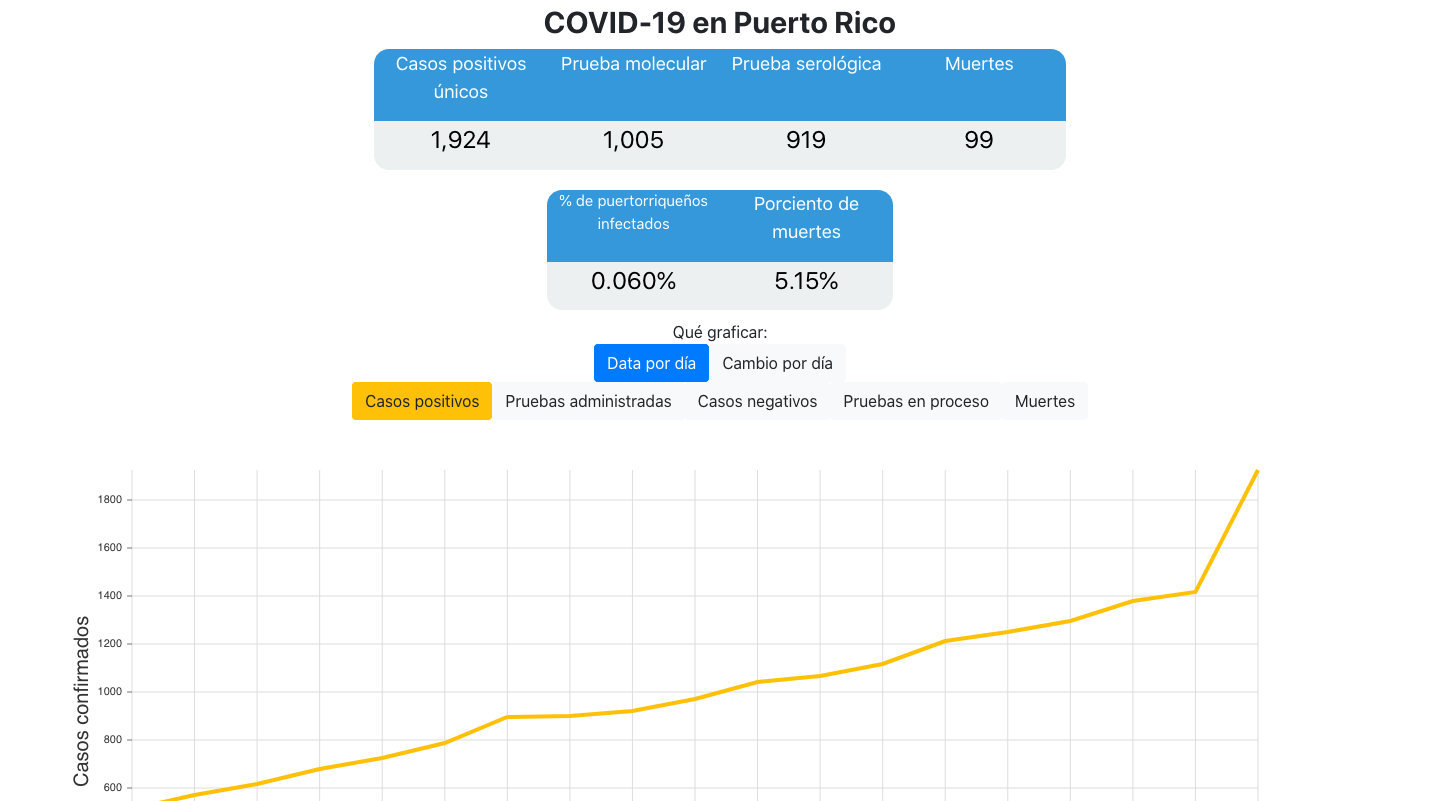
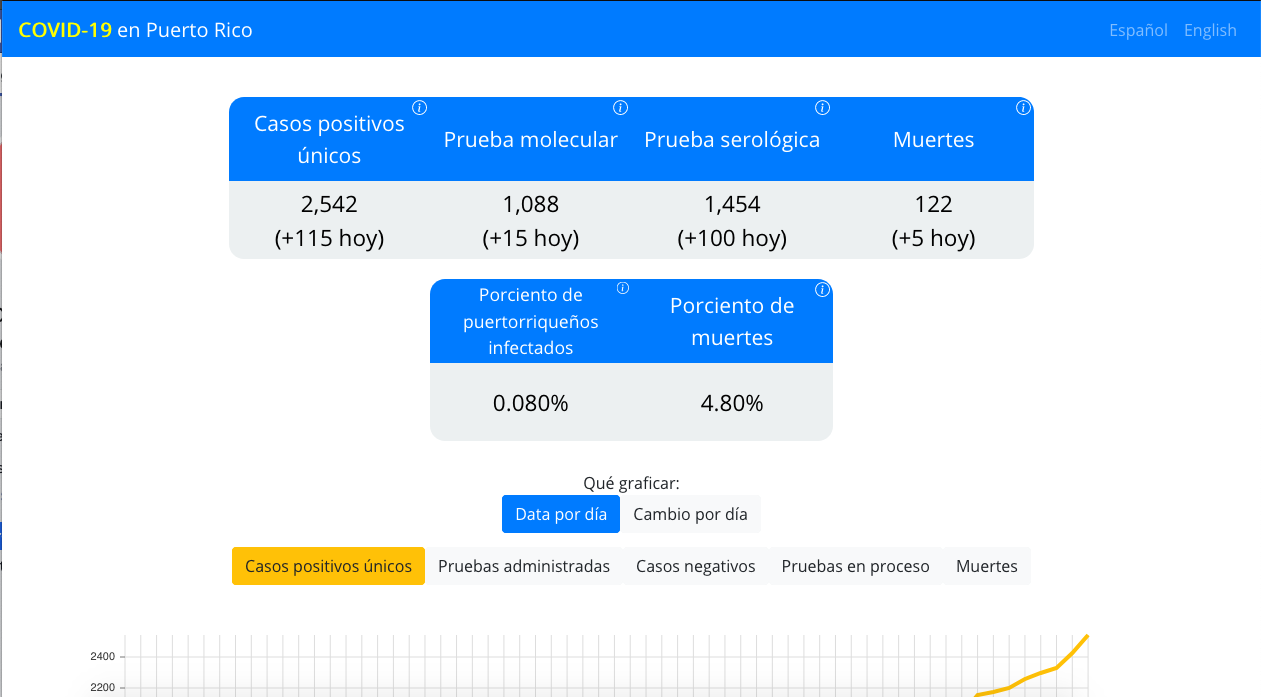
Added social buttons

diff --git a/src/components/Home/index.js b/src/components/Home/index.js
@@ -5,6 +5,13 @@ import { CSVLink } from "react-csv";
 import * as Icon from 'react-bootstrap-icons';
 import { useCookies } from 'react-cookie';
 
+import {
+  FacebookShareButton,
+  FacebookIcon,
+  TwitterShareButton,
+  TwitterIcon,
+} from "react-share";
+
 const ALERT_HEADER = {'en-us':'All historical data available','es-pr':'Historial completo'}
 const ALERT_BODY_ES =
 (<p> La data para el número de casos positivos y número de muertes está disponible desde la fecha del primer caso reportado (13 de marzo del 2020) hasta hoy.
@@ -112,6 +119,10 @@ function Navigation(props){
         <Navbar.Toggle aria-controls="responsive-navbar-nav" />
         <Navbar.Collapse id="responsive-navbar-nav">
           <Nav className="mr-auto">
+            <FacebookButton/>
+            <TwitterButton/>
+
+
           </Nav>
           <Nav>
             <Nav.Link eventKey={2} onClick={()=>props.clickSpanishButton()}>Español</Nav.Link>
@@ -239,6 +250,22 @@ function DataBlock(props){
       {props.text}
       {props.blockType === "label" ? <Icon.InfoCircle onClick={props.infoClick} className="infoCircle"/>: null }
     </div>
+  )
+}
+
+const FacebookButton = (props)=>{
+  return(
+  <FacebookShareButton url="covidtrackerpr.com">
+    <FacebookIcon size={'25px'} round={true}/>
+  </FacebookShareButton>
+  )
+}
+
+const TwitterButton = (props)=>{
+  return(
+  <TwitterShareButton url="https://twitter.com/intent/tweet?text=Visualiza%20la%20curva%20de%20COVID-19%20en%20Puerto%20Rico%3A&url=http%3A%2F%2Fcovidtrackerpr.com">
+    <TwitterIcon size={'25px'} round={true}/>
+  </TwitterShareButton>
   )
 }
 
@@ -440,6 +467,8 @@ export default function Home(props) {
         <div style={{display:'flex',flexDirection:'column',marginTop: 20,alignItems: 'center'}}>
           <InfoModal modalVisible={UIstate.modalVisible} modalHeader={UIstate.modalHeader} modalBody={UIstate.modalBody} handleShow={()=>setUIState({...UIstate,modalVisible:true})} handleClose={()=>setUIState({...UIstate,modalVisible:false})}/>
         </div>
+
+
         {UIstate.alertVisible ? <AlertHeader onClose={closeAlert} header={ALERT_HEADER[UIstate.locale]} body={ALERT_BODY[UIstate.locale]}/> : <div/>}
         <div style={{display: 'flex',flexDirection: 'column',alignItems: 'center',margin:20}}>
           <div style={{display: 'flex',flexDirection: 'column'}}>
